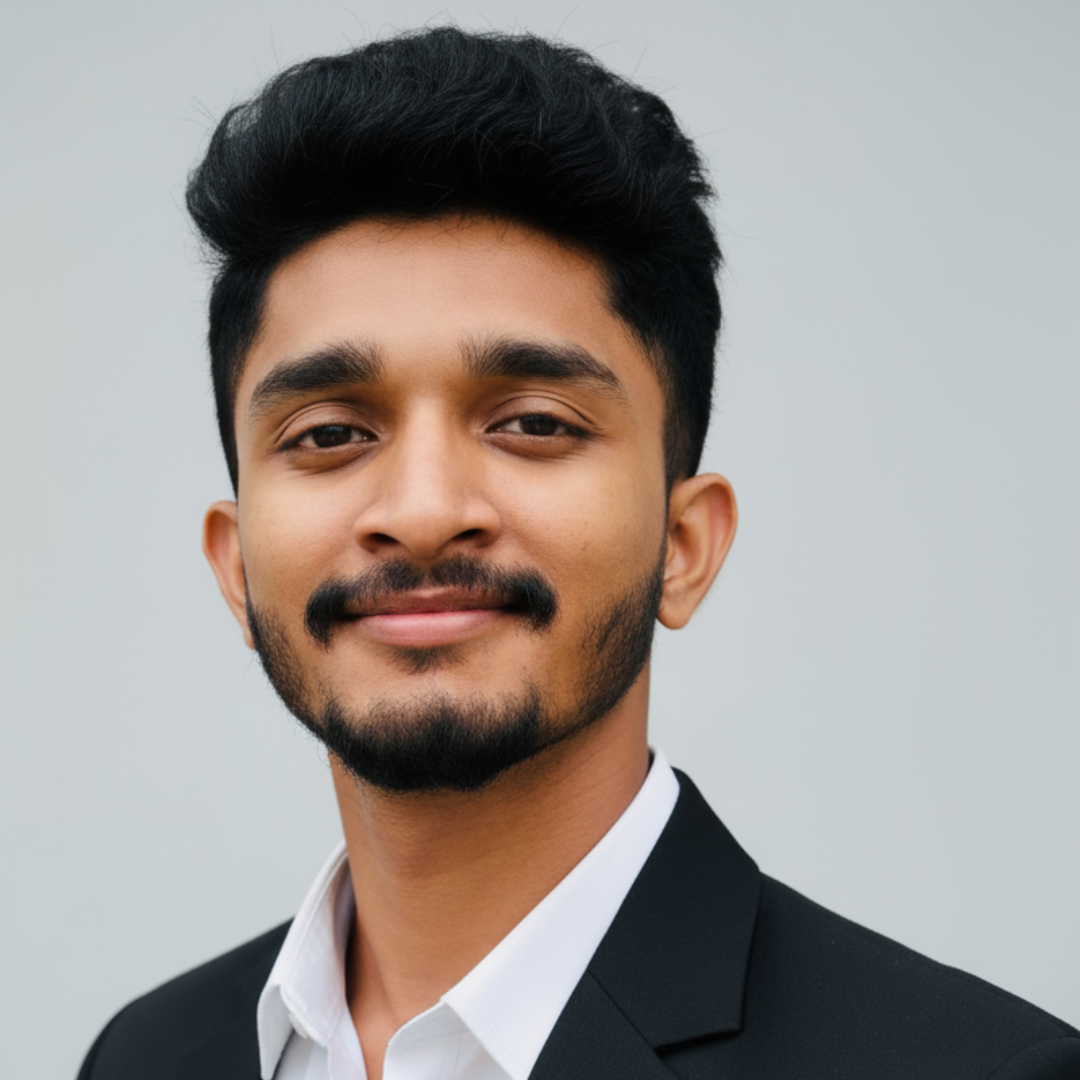
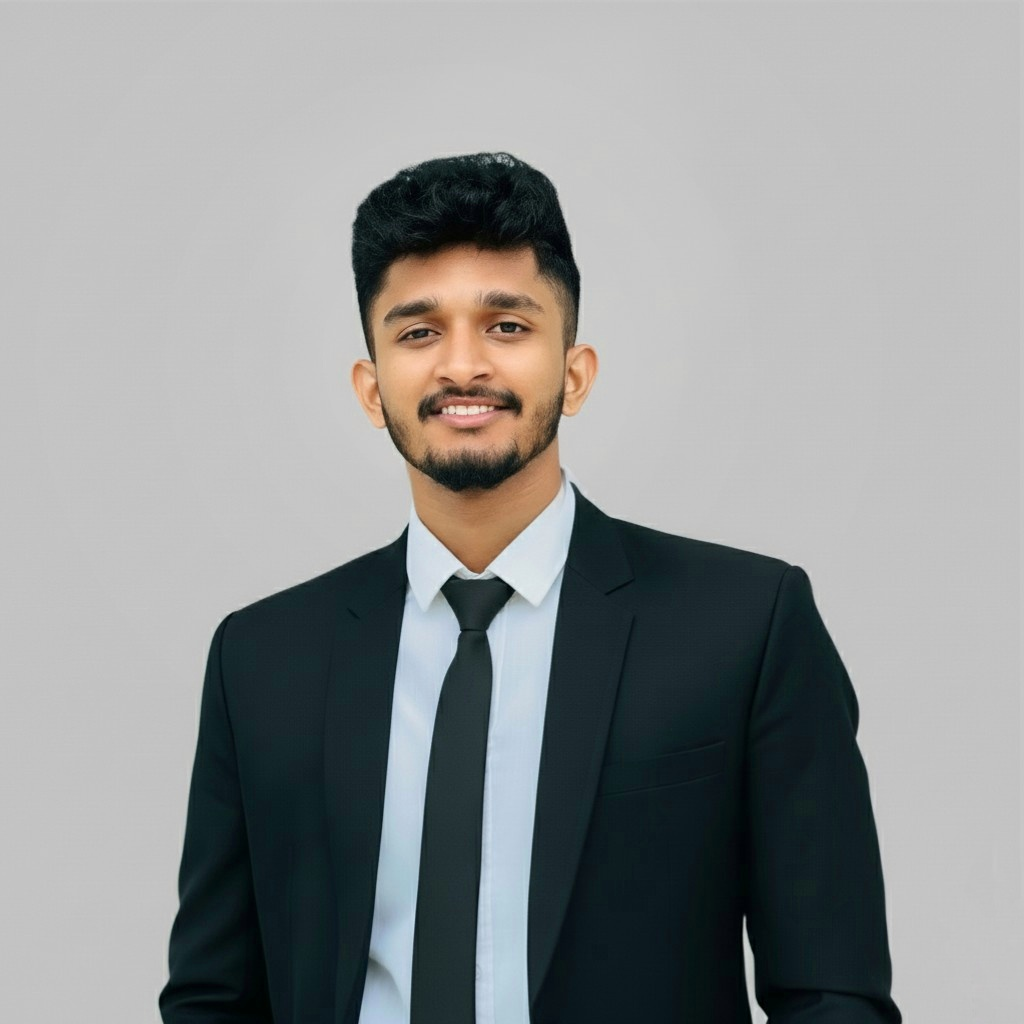
Updated profile photo

diff --git a/index.html b/index.html
@@ -47,7 +47,7 @@
 
       <div class="hero-image">
         <div class="profile-circle">
-          <img src="profile.png" alt="Wikum Surindu">
+          <img src="p1.png" alt="Wikum Surindu">
         </div>
       </div>
     </section>
